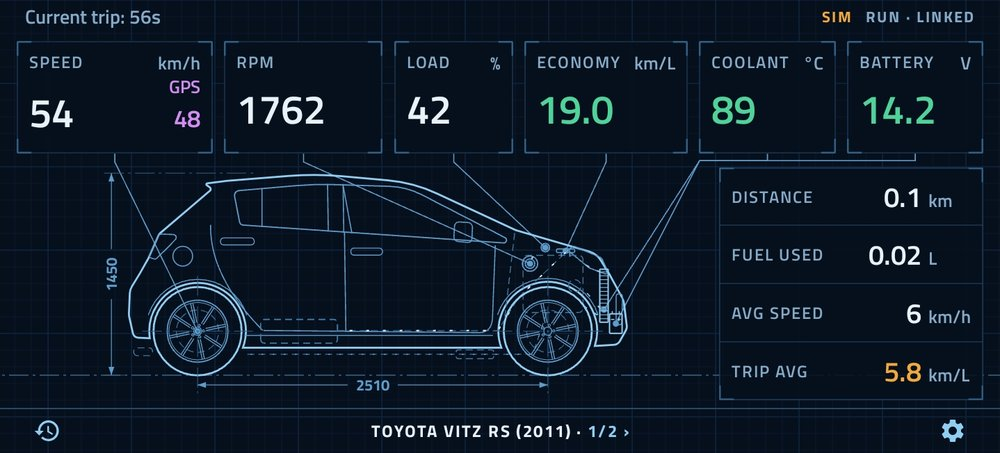
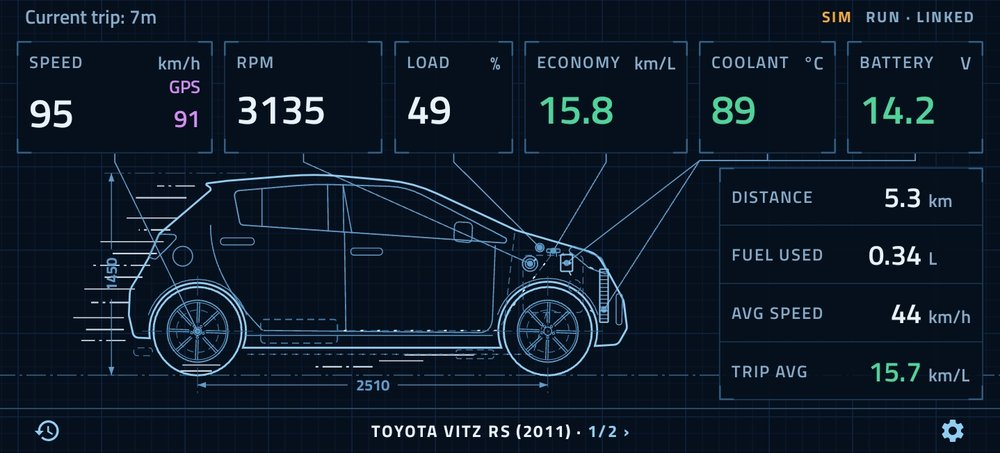
Manual: mirror the wording changes and the new Blueprint shot

diff --git a/manual.html b/manual.html
@@ -13,7 +13,7 @@
     color-scheme: dark;
     --bg: #0F1115; --panel: #191C22; --panel-edge: #23272E; --rule: #262A31; --frame: #2C313A;
     --text: #C6C9D1; --head: #E9EAEE; --muted: #8C9099; --accent: #3DD68C;
-    --good-bg: #11241B; --good-edge: #1E4433; --warn-bg: #251D12; --warn-edge: #3E3020;
+    --warn-bg: #251D12; --warn-edge: #3E3020;
     --sans: Archivo, system-ui, sans-serif; --serif: "Source Serif 4", Georgia, serif;
   }
   * { box-sizing: border-box; }
@@ -83,7 +83,6 @@
     background: var(--panel); box-shadow: inset 0 0 0 1px var(--panel-edge);
     border-radius: 10px; padding: 1rem 1.15rem; margin-top: 1.4rem;
   }
-  .box.good { background: var(--good-bg); box-shadow: inset 0 0 0 1px var(--good-edge); }
   .box.warn { background: var(--warn-bg); box-shadow: inset 0 0 0 1px var(--warn-edge); }
   .box .k { color: var(--head); }
   .info {
@@ -115,7 +114,7 @@
 
   @media print {
     :root { --bg: #fff; --panel: #f4f5f7; --panel-edge: #d9dce1; --rule: #d9dce1;
-            --good-bg: #ecf7f1; --good-edge: #bfe3cf; --warn-bg: #fbf3e7; --warn-edge: #ead6b6;
+            --warn-bg: #fbf3e7; --warn-edge: #ead6b6;
             --text: #222; --head: #000; --muted: #555; --accent: #0a7a47; }
     main { max-width: none; padding: 0; }
     nav { display: none; }
@@ -148,8 +147,8 @@
     the steering wheel, your phone reads what the car reports over Bluetooth, and this app displays
     it — temperatures, voltage, fuel economy, and a plain-English explanation of any warning
     light.</p>
-  <p>Leave the phone in the car and it records every drive on its own. There is no account to make
-    and nothing is collected about you.</p>
+  <p>The app can record every drive on its own. There is no account to make and nothing is
+    collected about you.</p>
 </div>
 
 <figure>
@@ -241,10 +240,10 @@
   <hr>
   <div class="pair">
     <div>
-      <div class="k">The strip along the top</div>
+      <div class="k">The status strip</div>
       <p>Always there: whether the phone has the car, whether the engine is running, and whether the
-        check engine light is on. Terminal keeps it at the foot, as a prompt, and Recall under the
-        trip figures.</p>
+        check engine light is on. Most themes keep it along the top; Terminal keeps it at the foot,
+        as a prompt, and Recall under the trip figures.</p>
       <p>Anything serious takes it over, pulls you back to the dashboard and chimes: twice for
         overheating or a charging voltage that is too high, once for a check engine light. Silent
         mode is respected. A battery that is not being charged shows in amber without a chime; the
@@ -254,8 +253,8 @@
       <div class="k">Reading it at a glance</div>
       <p>Every theme is dark, so the screen does not light up the cabin at night.
         Green means a reading is where it should be, amber worth a look, red stop.</p>
-      <p>The display stays awake while the engine runs. If the phone isn't plugged in, turn that off
-        in Settings.</p>
+      <p>By default the display stays awake while the engine runs. It is a switch; see <i>Setting it
+        up, and living with it</i>.</p>
     </div>
   </div>
 
@@ -273,19 +272,21 @@
       <h3>History</h3>
       <p>Reached from the clock icon in the dashboard footer. Every drive is listed with distance,
         economy and fuel cost.</p>
-      <p>The two charts are the reason this screen exists. Battery voltage drifting down over weeks,
-        or peak coolant drifting up, is worth looking into. Neither shows up in one reading, only as
-        a line.</p>
+      <p>The two charts show what no single drive can. Battery voltage drifting down over weeks, or
+        peak coolant drifting up, is worth looking into. Neither shows up in one reading, only as a
+        trend.</p>
       <p>The second keeps economy in traffic apart from economy on the open road. Economy moves with
-        weather, traffic and how you drive, so read it as a trend rather than a verdict on the
-        engine.</p>
+        weather, traffic and how you drive, so compare it over weeks rather than reading one
+        figure as a verdict on the engine.</p>
     </div>
     <div class="shot frame"><img src="img/history.jpg" width="480" height="959" loading="lazy" alt="History screen"></div>
     <div class="text">
       <hr>
       <h3>It survives a new phone</h3>
-      <p>History exports to a spreadsheet and reads back in. Or turn on <b>Back up to Google
-        Drive</b>: sign in once on each phone and every drive, car and cost stays in step.</p>
+      <p><b>Export</b>, on the History screen, saves your history to a file — with more than one
+        car, tick every car to take them all — and <b>Import</b> on the new phone reads it back
+        in. Or turn on <b>Back up history to Google Drive</b>: sign in once on each phone and every
+        drive, car and cost stays in step.</p>
     </div>
   </div>
 
@@ -321,9 +322,10 @@
       <p>When the check engine light comes on, the car has stored a code explaining why. Tap
         <b>Read</b> on Diagnostics and you get it as a sentence, not the five-character number a
         cheap code reader gives you.</p>
-      <p>It also saves a snapshot of what the engine was doing at the time. The same code at cold
-        idle and at motorway speed often points somewhere different, and the snapshot is what a
-        mechanic will want to see.</p>
+      <p>The car also keeps a snapshot of what the engine was doing when the fault was recorded, and
+        <b>Read</b> shows it under <b>Freeze frame</b>. The same code at cold idle and at motorway
+        speed often points somewhere different, and the snapshot is what a mechanic will want to
+        see.</p>
     </div>
     <div class="shot">
       <div class="frame"><img src="img/diagnostics.jpg" width="480" height="959" loading="lazy" alt="Diagnostics screen"></div>
@@ -334,19 +336,11 @@
       <h3>Before you clear a warning light</h3>
       <p>The app can clear a stored fault, behind a confirmation. Clearing fixes nothing — if the
         cause remains, the car records it again, often within a day.</p>
-      <p>It also erases that snapshot and resets the self-tests below, so the car will <b>fail an
-        inspection</b> until it has been driven enough to finish them. Useful after a repair; a bad
-        idea the morning of an inspection.</p>
+      <p>It also erases that snapshot and resets the car's emissions self-tests, so the car will
+        <b>fail an inspection</b> until it has been driven enough to finish them. Diagnostics lists
+        them and says whether you are ready. Useful after a repair; a bad idea the morning of an
+        inspection.</p>
     </div>
-  </div>
-
-  <div class="box good">
-    <h3>Check this before you drive to a testing station</h3>
-    <p>Your car runs its own emissions self-tests as you drive, and an inspection fails if they
-      haven't all finished — even with nothing wrong with the car. Disconnecting the battery or
-      clearing a fault resets them.</p>
-    <p>Diagnostics lists them and says whether you are ready. If any are outstanding, a mix of town
-      and open-road driving over a day or two usually finishes them.</p>
   </div>
 
   <hr>
@@ -372,8 +366,12 @@
       <h3>It can start itself</h3>
       <p>Turn on <b>Watch the car in the background</b> and the app connects on its own, records the
         drive and lets go when you park. A notification shows what it is doing and can stop it.</p>
-      <p><b>Wake the screen when the engine starts</b> is the more intrusive half: leave the phone in
-        the car and the dashboard appears over the lock screen by itself, once per drive.</p>
+      <p><b>Wake the screen when the engine starts</b> is the more intrusive half: the dashboard
+        appears over the lock screen by itself, once per drive. <b>Keep the screen on while
+        driving</b> then holds it on while the engine runs, and hands it back to the phone's own
+        timeout when you switch off.</p>
+      <p>Settings also offers <b>Allow unrestricted battery use</b>. Without it, Android checks on a
+        parked car less often, so the app can take longer to notice you have set off.</p>
       <p>How fast it notices depends on power. In a socket that switches off with the key, it wakes
         as you turn it. Otherwise allow a minute or two.</p>
     </div>
@@ -384,10 +382,13 @@
     <div class="text">
       <div class="box warn">
         <h3>Switches only you can set</h3>
-        <p>Some phones add switches of their own that no app can ask for or check. If yours has
-          them, set them for this app in your phone's Settings, under Apps. <b>Autostart</b> lets it
-          start watching again after a restart or an update. <b>Show on lock screen</b> and
-          <b>Open new windows while running in the background</b> let it wake the screen.</p>
+        <p>A few switches can't be set by the app itself. Find them for this app in your phone's
+          Settings, under Apps. Turn off <b>Pause app activity if unused</b>: an app that runs on its
+          own may go months without being opened, and Android would then take its permissions
+          away.</p>
+        <p>Some phones add more of their own. <b>Autostart</b> lets it start watching again after a
+          restart or an update. <b>Show on lock screen</b> and <b>Open new windows while running in
+          the background</b> let it wake the screen.</p>
       </div>
     </div>
   </div>
